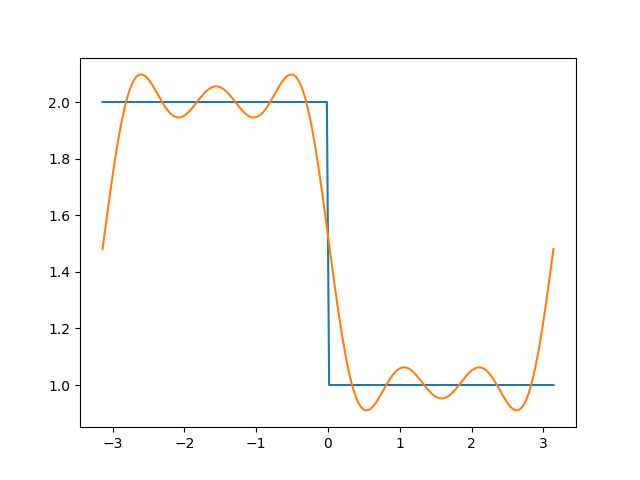
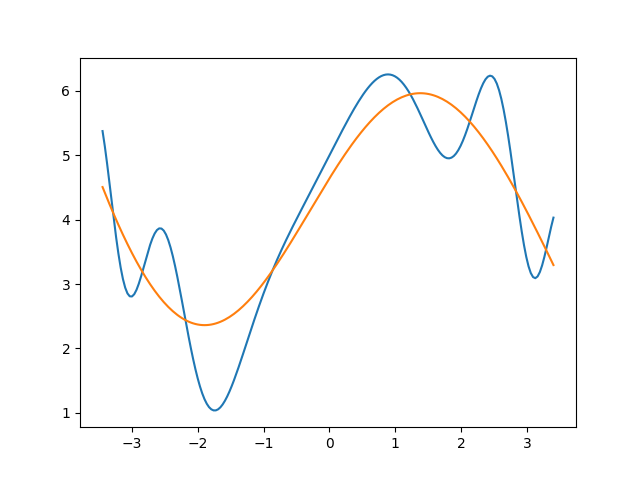
Questões Prova

diff --git a/src/quadrature.py b/src/quadrature.py
@@ -6,6 +6,12 @@ def f(x):
 def f1(x):
     return x**2 * math.exp(-x) * math.cos(x) + 1
 
+def f2(x):
+    return x**2 * math.cos(3*x)
+
+def f3(x):
+    return (x**2 + math.cos(2*x**3)) ** 2
+
 def quadrature (f, lista_de_pontos_e_pesos):
     soma = 0
     for x_k, c_k in lista_de_pontos_e_pesos:
@@ -16,7 +22,7 @@ def change(f, a, b, u):
    return f((b + a) / 2 + (b - a) * u / 2) * (b - a) / 2
 
 def g(u):
-    return change(f1, a, b, u)
+    return change(f3, a, b, u)
 
 
 
@@ -32,10 +38,17 @@ if __name__ == '__main__':
           (0.525532409916329, 0.31370664587788727), (-0.7966664774136267, 0.22238103445337448), (0.7966664774136267, 0.22238103445337448),
           (-0.9602898564975363, 0.10122853629037626), (0.9602898564975363, 0.10122853629037626)]
 
-    print('{x:<20}{c:<20}'.format(x='x_k', c='c_k'))
-    for x_k, c_k in n3:
-        print('{x:<20}{c:<20}'.format(x=x_k, c=c_k))
-
-    a, b = [0.05848, 4.49597]
-    r = quadrature(g, n8)
-    print(r)
+    # print('{x:<20}{c:<20}'.format(x='x_k', c='c_k'))
+    # for x_k, c_k in n3:
+    #     print('{x:<20}{c:<20}'.format(x=x_k, c=c_k))
+    pontos = (-0.1834346424956498, 0.1834346424956498, -0.525532409916329, 0.525532409916329, -0.7966664774136267,
+              0.7966664774136267, -0.9602898564975363, 0.9602898564975363)
+    pesos = (0.362683783378362, 0.362683783378362, 0.31370664587788727, 0.31370664587788727, 0.22238103445337448,
+             0.22238103445337448, 0.10122853629037626, 0.10122853629037626)
+    n = []
+    for i in range(len(pontos)):
+        n.append((pontos[i], pesos[i]))
+    print(n)
+    a, b = [-1.142, 0.977]
+    r = quadrature(g, n)
+    print(r**(1/2))

diff --git a/src/trapz.py b/src/trapz.py
@@ -18,14 +18,17 @@ def f(x):
 def g(x):
     return math.cos(x ** 2)
 
+def h(x):
+    return x**2 * math.cos(3*x**2)
+
 
 if __name__ == '__main__':
 
-    # a = 0
-    # b = 1
-    # n = 10
-    # r = trapz(f, a, b, n)
-    # print(r)
+    a = -0.953
+    b = 1.209
+    n = 128
+    r = trapz(h, a, b, n)
+    print(r)
 
 
     # intervalo = [-0.704, 0.513]
@@ -33,18 +36,18 @@ if __name__ == '__main__':
     # for i in range(len(subintervalos)):
     #     print(trapz(f, intervalo[0], intervalo[1], subintervalos[i]))
 
-    x = [0.79664, 1.51745, 1.70088, 3.75536, 3.82042, 4.52281, 4.61101, 4.86443, 4.99453]
-    y = [2.99248, 2.23076, 2.08935, 2.06027, 1.82852, 2.0813, 2.50914, 2.93904, 2.44177]
-    soma = 0
-    for i in range(len(x) - 1):
-        def eq_reta(x_):
-            m = (y[i+1] - y[i]) / (x[i+1] - x[i])
-            n = y[i] - m * x[i]
-            #print('m: ', m, ' | n: ', n)
-            #print(f'({x[i]}, {y[i]}), ({x[i+1]}, {y[i+1]})')
-            return m * x_ + n
-
-        soma += trapz(eq_reta, x[i], x[i+1], 1)
-
-    print(soma)
+    # x = [0.79664, 1.51745, 1.70088, 3.75536, 3.82042, 4.52281, 4.61101, 4.86443, 4.99453]
+    # y = [2.99248, 2.23076, 2.08935, 2.06027, 1.82852, 2.0813, 2.50914, 2.93904, 2.44177]
+    # soma = 0
+    # for i in range(len(x) - 1):
+    #     def eq_reta(x_):
+    #         m = (y[i+1] - y[i]) / (x[i+1] - x[i])
+    #         n = y[i] - m * x[i]
+    #         #print('m: ', m, ' | n: ', n)
+    #         #print(f'({x[i]}, {y[i]}), ({x[i+1]}, {y[i+1]})')
+    #         return m * x_ + n
+    #
+    #     soma += trapz(eq_reta, x[i], x[i+1], 1)
+    #
+    # print(soma)
 

diff --git a/src/fit_func.py b/src/fit_func.py
@@ -2,30 +2,25 @@ import math
 import numpy as np
 import matplotlib.pyplot as plt
 def f(x):
-    if x <= 0:
-        return 2
-    return 1
+    return 2 * math.sin(x) + math.cos(-x**2) + 4
 
 def f1(x):
     return 1
 
 def f2(x):
-    return math.sin(x)
+    return x
 
 def f3(x):
-    return math.cos(x)
+    return math.sin(x)
 
 def f4(x):
-    return math.sin(3 * x)
+    return math.cos(x)
 
 def f5(x):
-    return math.cos(3 * x)
+    return x**2 + 1
 
 def f6(x):
-    return math.sin(5 * x)
-
-def f7(x):
-    return math.cos(5 * x)
+    return x**3 - x
 
 
 def trapz(f, a, b, n):
@@ -63,10 +58,13 @@ def g(x):
     return soma
 
 if __name__ == '__main__':
-    fs = [f1, f2, f3, f4, f5, f6, f7]
-    a, b = [-math.pi, math.pi]
+    fs = [f1, f2, f3, f4, f5, f6]
+    a, b = [-3.447, 3.402]
 
     coeffs = best_func(f, a, b, fs, intervalos=128)
+
+    for i in range(len(coeffs)):
+        print(f'a_{i+1} = {coeffs[i]}')
 
     t = np.linspace(a, b, 200)
     ft = [f(i) for i in t]

diff --git a/src/best_func_ortho.py b/src/best_func_ortho.py
@@ -1,7 +1,7 @@
 import numpy as np
 import matplotlib.pyplot as plt
 
-# f1(x) = 1, f2(x)=x, f3(x), (3x^2-1)/2 em C[-1, 1]
+# f1(x) = 1, f2(x)=x, f3(x)=(3x^2-1)/2 em C[-1, 1]
 
 n5 = [(0.9061798459, 0.2369268850), (0.5384693101, 0.4786286705), (0.0000000000, 0.5688888889),
       (-0.5384693101, 0.4786286705), (0.9061798459, 0.2369268850)]
@@ -13,7 +13,7 @@ def f(x):
     return 2
 
 
-def quadrature (f, lista_de_pontos_e_pesos):
+def quadrature(f, lista_de_pontos_e_pesos):
     # serve apenas para integrais no intervalo [-1, 1]
     soma = 0
     for x_k, c_k in lista_de_pontos_e_pesos:
@@ -31,7 +31,6 @@ def coeffs_best_func(f, a, b, fs):
         raise ValueError('a deve ser -1 e b deve ser 1, realize uma mudança de variáveis')
     coeffs = []
     for k in range(len(fs)):
-
         # ck = integral de f*fk em [a, b] dividido por integarl de fk * fk em [a, b]
         def ffk(x):
             return f(x) * fs[k](x)

diff --git a/src/euler_half.py b/src/euler_half.py
@@ -10,6 +10,9 @@ def g(x, y):
 def h(x, y):
     return y * math.cos(x) + 1
 
+def m(x, y):
+    return y + math.exp(-x**2) + 1
+
 def euler_half(f, x0: float, y0: float, h: float, n: int):
     r = []
     for i in range(n):
@@ -22,9 +25,9 @@ def euler_half(f, x0: float, y0: float, h: float, n: int):
     return r
 
 if __name__ == '__main__':
-    x0 = 0.727
-    y0 = 1.95195
-    r = euler_half(h, x0, y0, h=0.13307, n=10)
+    x0 = 0.52409
+    y0 = 1.09402
+    r = euler_half(m, x0, y0, h=0.15027, n=10)
 
     x, y = zip(*r)
 

diff --git a/src/euler.py b/src/euler.py
@@ -1,3 +1,5 @@
+import math
+
 import matplotlib.pyplot as plt
 import numpy as np
 
@@ -22,11 +24,13 @@ def g(x, y):
 def h(x, y):
     return y * np.cos(x) + 1
 
+def m(x, y):
+    return y + math.exp(-x**2) + 2
 
 if __name__ == '__main__':
-    x0 = 0.74506
-    y0 = 1.33292
-    r = euler(h, x0, y0, h=0.1236, n=10)
+    x0 = 0.35264
+    y0 = 1.78641
+    r = euler(m, x0, y0, h=0.10808, n=10)
 
     k = 1
     for x, y in zip(*r):

diff --git a/src/ralston.py b/src/ralston.py
@@ -20,11 +20,14 @@ def g(x, y):
 def h(x, y):
     return y * math.cos(x) + 1
 
+def m(x, y):
+    return y + math.exp(-x**2) + 2
+
 if __name__ == '__main__':
 
-    x0 = 0.40967
-    y0 = 1.89727
-    r = ralston(h, x0, y0, h=0.14777, n=10)
+    x0 = 0.24987
+    y0 = 1.41254
+    r = ralston(m, x0, y0, h=0.1988, n=10)
 
     x, y = zip(*r)
 

diff --git a/src/heun.py b/src/heun.py
@@ -20,12 +20,14 @@ def g(x, y):
 def h(x, y):
     return y * math.cos(x) + 1
 
+def m(x, y):
+    return y + math.exp(-x**2) + 3
 
 if __name__ == '__main__':
 
-    x0 = 1.58334
-    y0 = 1.75451
-    r = heun(g, x0, y0, h=0.13059, n=10)
+    x0 = 0.1724
+    y0 = 1.10093
+    r = heun(m, x0, y0, h=0.18617, n=10)
 
     x, y = zip(*r)
 

diff --git a/src/rk4.py b/src/rk4.py
@@ -22,11 +22,14 @@ def g(x, y):
 def h(x, y):
     return y * math.cos(x) + 1
 
+def m(x, y):
+    return y + math.exp(-x**2) + 1
+
 if __name__ == '__main__':
 
-    x0 = 0.57727
-    y0 = 1.82833
-    r = rk4(h, x0, y0, h=0.12316, n=10)
+    x0 = 0.33382
+    y0 = 1.73071
+    r = rk4(m, x0, y0, h=0.16734, n=10)
 
     x, y = zip(*r)
 
